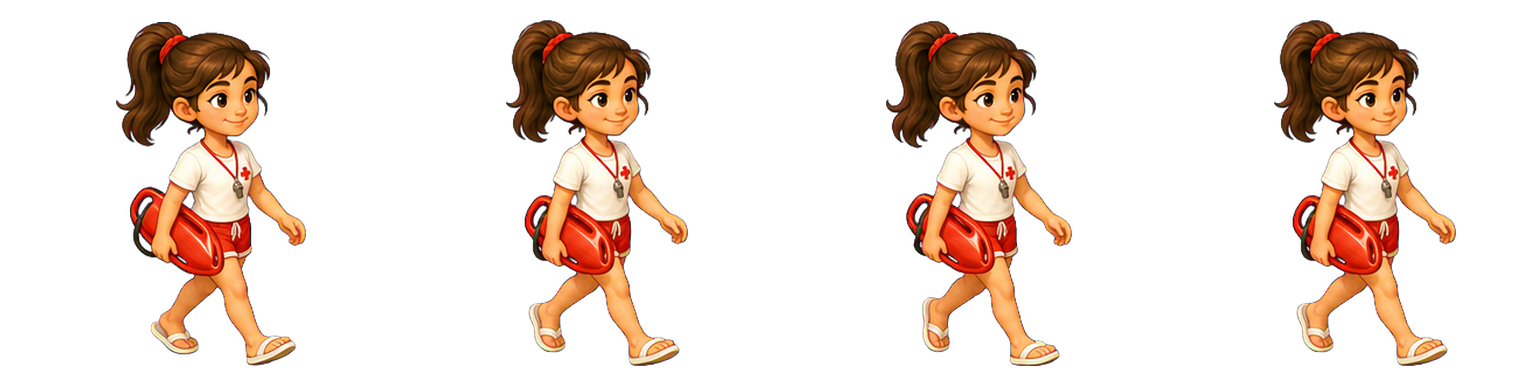
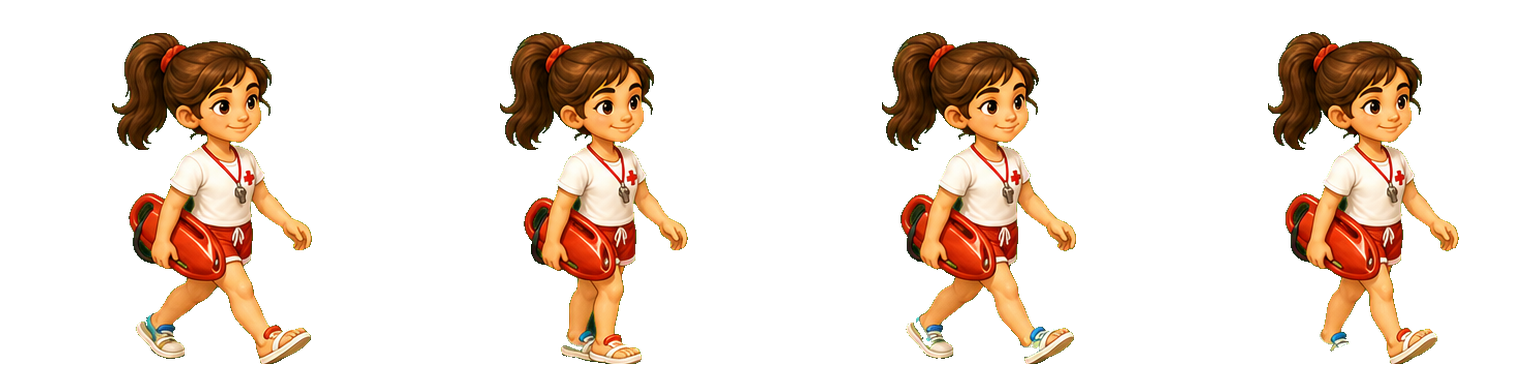
Replace Compo modern walker sprite sheet

diff --git a/idle/sw.js b/idle/sw.js
@@ -1,4 +1,4 @@
-const CACHE_NAME = "idle-town-pwa-cache-v27";
+const CACHE_NAME = "idle-town-pwa-cache-v28";
 const CROP_FILES = ["carrot", "wheat", "strawberry", "pumpkin", "blueberry", "apple"].flatMap((crop) =>
   ["soil", "sprout", "young", "mature"].map((stage) => `./assets/art/living-world/crops/${crop}-${stage}.png`)
 );
